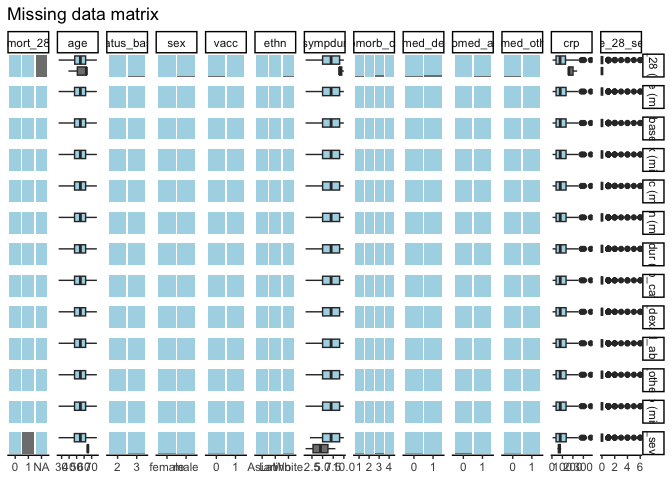
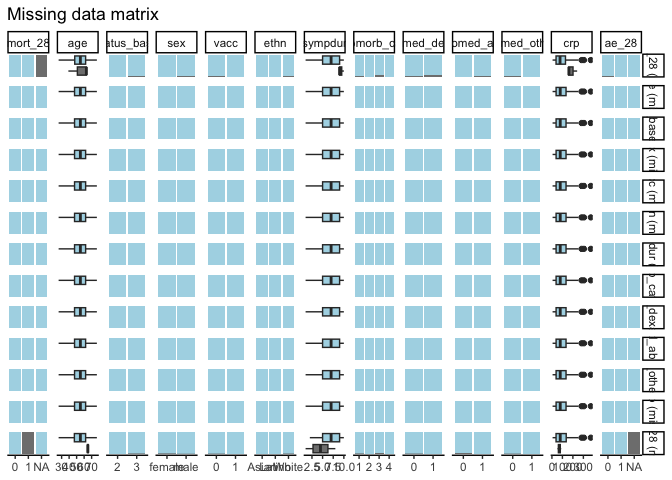
covinib: updated

Changed region(s): [[0.875, 0.0625, 1.0, 1.0]]

diff --git a/covinib.md b/covinib.md
@@ -206,7 +206,7 @@ df$vacc <- df$Vacc ## no missing
 # Serology
 ```
 Discussion points
-2. MS using Copaxone: immunosupp?
+2. MS using Copaxone: immunosupp? -> NO, but comorb_autoimmun
 
 # Endpoints
 
@@ -386,7 +386,15 @@ df_ae_comb <- df_ae_comb %>%
                              TRUE ~ 0))
 df_ae <- df_ae_comb %>% 
   select(id_pat, trt, ae, note, grade, ae_28_list, aesi_28)
+df_aesi <- df_ae %>% 
+  mutate(aesi = case_when(ae_28_list == "Secondary infections" ~ "sec_inf",
+                          ae_28_list == "Thromboembolic events" ~ "thrombo",
+                          ae_28_list == "Anemia and other hematological disorders" ~ "penia",
+                          ae_28_list == "Liver impairment" & grade == "3 or 4" ~ "hepatox")) %>% 
+  filter(!is.na(aesi)) %>% 
+  select(id_pat, trt, aesi, ae_28_list)
 # Save
+saveRDS(df_aesi, file = "df_aesi_covinib.RData")
 saveRDS(df_ae, file = "df_ae_covinib.RData")
 ```
 
@@ -731,7 +739,7 @@ df_imp %>%
 ```r
 explanatory = c("age", 
   "clinstatus_baseline", "sex", "vacc",  
-  "ethn", "sympdur", "comorb_cat", "comed_dexa", "comed_ab", "comed_other", "crp", "ae_28_sev")
+  "ethn", "sympdur", "comorb_cat", "comed_dexa", "comed_ab", "comed_other", "crp", "ae_28")
 dependent = "mort_28"
 df_imp %>% # from finalfit package, missing plot
   missing_pairs(dependent, explanatory, position = "fill", )
@@ -743,7 +751,7 @@ df_imp %>% # from finalfit package, missing plot
 # Second, let's explore the missingness patterns
 md.pattern(df_imp[,c("mort_28", "age", 
   "clinstatus_baseline", "sex", "vacc",  
-  "ethn", "sympdur", "comorb_cat", "comed_dexa", "comed_ab", "comed_other", "crp", "ae_28_sev")], rotate.names = T)
+  "ethn", "sympdur", "comorb_cat", "comed_dexa", "comed_ab", "comed_other", "crp", "ae_28")], rotate.names = T)
 ```
 
 ![](covinib_files/figure-html/unnamed-chunk-6-6.png)<!-- -->
@@ -754,11 +762,11 @@ md.pattern(df_imp[,c("mort_28", "age",
 ## 3     1                   1   1    1    1       1          1          1
 ## 2     1                   1   1    1    1       1          1          1
 ##       0                   0   0    0    0       0          0          0
-##     comed_ab comed_other crp ae_28_sev mort_28  
-## 105        1           1   1         1       1 0
-## 3          1           1   1         1       0 1
-## 2          1           1   1         0       1 1
-##            0           0   0         2       3 5
+##     comed_ab comed_other crp ae_28 mort_28  
+## 105        1           1   1     1       1 0
+## 3          1           1   1     1       0 1
+## 2          1           1   1     0       1 1
+##            0           0   0     2       3 5
 ```
 
 ```r
@@ -775,7 +783,7 @@ mort28.aux <- glm(mort_28 ~ trt
             # + comed_ab
             # + comed_other
             + crp
-            # + ae_28_sev
+            # + ae_28
             ,family="binomial"
             ,data=df_imp)
 summary(mort28.aux)
@@ -991,11 +999,18 @@ df_imp %>%
    <td style="text-align:right;"> 0.021 </td>
   </tr>
   <tr>
-   <td style="text-align:left;"> ae_28_sev </td>
-   <td style="text-align:left;"> Mean (SD) </td>
-   <td style="text-align:right;"> 0.5 (1.2) </td>
-   <td style="text-align:right;"> 0.0 (0.0) </td>
-   <td style="text-align:right;"> 0.502 </td>
+   <td style="text-align:left;"> ae_28 </td>
+   <td style="text-align:left;"> 0 </td>
+   <td style="text-align:right;"> 82 (96.5) </td>
+   <td style="text-align:right;"> 3 (3.5) </td>
+   <td style="text-align:right;"> 0.843 </td>
+  </tr>
+  <tr>
+   <td style="text-align:left;">  </td>
+   <td style="text-align:left;"> 1 </td>
+   <td style="text-align:right;"> 23 (100.0) </td>
+   <td style="text-align:right;"> 0 (0.0) </td>
+   <td style="text-align:right;">  </td>
   </tr>
 </tbody>
 </table>
@@ -1147,8 +1162,7 @@ print(plot_clinstat_cont)
 ```r
 #### INTERVENTION group
 ## jomo only accepts numeric or factors, check and adapt
-# str(df_imp_long_int)
-# table(df_imp_long_cont$mort_28, useNA = "always") # not a single death in intervention
+str(df_imp_long_int)
 df_imp_long_int$timesq <- sqrt(df_imp_long_int$time) # see X below
 attach(df_imp_long_int)
 Y2<-data.frame(mort_28 # level 2 variables (baseline patient characteristics)
@@ -1163,7 +1177,7 @@ Y2<-data.frame(mort_28 # level 2 variables (baseline patient characteristics)
                , sympdur
                , sqcrptrunc
                  )
-Y<-data.frame(clinstatus) # level 1 variable within clustering variable
+Y<-data.frame(clinstatus_f) # level 1 variable within clustering variable
 X <- cbind(1, data.frame(clinicalstatus_baseline, time, timesq)) # matrix modelling linearity of clinstatus throughout day 28
 clus<-data.frame(id_pat) # clustering variable (patient)
 Z<-data.frame(rep(1,dim(df_imp_long_int)[1]),df_imp_long_int[,c("time")]) # random intercept and random slope
@@ -1258,7 +1272,6 @@ imputed_combined <- rbind(imputed_cont_wide, imputed_int_wide)
 
 #### Convert combined df to jomo object, split imputations, and exclude original data (imputation "0")
 imp.list <- imputationList(split(imputed_combined, imputed_combined$Imputation)[-1])
-
 
 ### Checks
 round(prop.table(table(imp.list[[1]]$`1`$mort_28, imp.list[[1]]$`1`$trt, useNA = "always"),2)*100,1) # first imputed dataset
@@ -1589,15 +1602,38 @@ with(df, table(trt, mort_28))
 ```
 
 ```r
-# mort.28.prop.test <- prop.test(x = with(df, table(trt, mort_28)))
+mort.28.prop.test <- prop.test(x = with(df, table(trt, mort_28)))
 # print(mort.28.prop.test)
-# # Estimate
-# -diff(mort.28.prop.test$estimate)
-# # Confidence Interval
-# mort.28.prop.test$conf.int
-# # P-Value
-# mort.28.prop.test$p.value
+# Estimate
+-diff(mort.28.prop.test$estimate)
+```
 
+```
+##      prop 2 
+## -0.03703704
+```
+
+```r
+# Confidence Interval
+mort.28.prop.test$conf.int
+```
+
+```
+## [1] -0.10610051  0.03202644
+## attr(,"conf.level")
+## [1] 0.95
+```
+
+```r
+# P-Value
+mort.28.prop.test$p.value
+```
+
+```
+## [1] 0.4836165
+```
+
+```r
 # Covariate-Adjusted Analysis
 # Fit the `glm` object
 # Same as Complete case analysis, substantive model // but don't use piping, otherwise problem in margins::margins
@@ -1920,39 +1956,44 @@ survfit2(Surv(death_time, death_reached) ~ trt, data=df) %>%
 ![](covinib_files/figure-html/unnamed-chunk-11-1.png)<!-- -->
 
 ```r
-# testing: cox ph
-ttdeath <- df %>%
-  coxph(Surv(death_time, death_reached) ~ trt
-        + age + clinstatus_baseline
-        , data =.)
-ttdeath_reg_tbl <- tbl_regression(ttdeath, exp = TRUE)
-
-# ttdeath.firth <- df %>%
-#   logistf(Surv(death_time, death_reached) ~ trt
-#         #+ age + clinstatus_baseline + comed_dexa + comed_rdv + comed_toci
+# testing: cox ph, using firth regression
+# ttdeath <- df %>%
+#   coxph(Surv(death_time, death_reached) ~ trt
+#         + age + clinstatus_baseline
 #         , data =.)
 # ttdeath_reg_tbl <- tbl_regression(ttdeath, exp = TRUE)
 
-# Nicely formatted table
-kable(ttdeath_reg_tbl, format = "markdown", table.attr = 'class="table"') %>%
-  kable_styling(bootstrap_options = "striped", full_width = FALSE)
+library(coxphf)
+ttdeath.firth <- df %>%
+  coxphf(Surv(death_time, death_reached) ~ trt
+        + age 
+        # + clinstatus_baseline 
+        # + comed_dexa + comed_rdv + comed_toci
+        , data =.)
+summary(ttdeath.firth)
 ```
 
-
-
-|**Characteristic**  |**HR** |**95% CI** |**p-value** |
-|:-------------------|:------|:----------|:-----------|
-|trt                 |0.00   |0.00, Inf  |>0.9        |
-|age                 |1.10   |0.94, 1.29 |0.2         |
-|clinstatus_baseline |NA     |NA         |NA          |
-|1                   |NA     |NA         |NA          |
-|2                   |0.00   |0.00, Inf  |>0.9        |
-|3                   |NA     |NA         |NA          |
-|4                   |NA     |NA         |NA          |
-|5                   |NA     |NA         |NA          |
-|6                   |NA     |NA         |NA          |
+```
+## coxphf(formula = Surv(death_time, death_reached) ~ trt + age, 
+##     data = .)
+## 
+## Model fitted by Penalized ML
+## Confidence intervals and p-values by Profile Likelihood 
+## 
+##           coef   se(coef) exp(coef)  lower 0.95 upper 0.95    Chisq         p
+## trt -1.7441827 1.94101191 0.1747878 0.001269507   2.131802 1.749118 0.1859877
+## age  0.1009854 0.07617072 1.1062605 0.966858335   1.288465 2.096026 0.1476826
+## 
+## Likelihood ratio test=3.618911 on 2 df, p=0.1637433, n=110
+## Wald test = 2.648567 on 2 df, p = 0.2659935
+## 
+## Covariance-Matrix:
+##             trt         age
+## trt 3.767527244 0.004988562
+## age 0.004988562 0.005801978
+```
 Discussion points
-1. R.Riley IPDMA handbook, page 102: "As for binary outcomes, when there are few events in some trials adaptions of Firth’s correction are important to reduce small sample bias in the estimated treatment effect." -> implement
+1. R.Riley IPDMA handbook, page 102: "As for binary outcomes, when there are few events in some trials adaptions of Firth’s correction are important to reduce small sample bias in the estimated treatment effect."
 
 # (iv) New mechanical ventilation among survivors within 28 days
 
@@ -4490,6 +4531,12 @@ extract_trt_results <- function(model, variable_name, n_int, n_cont) {
     ci <- exp(confint(model)["trt", ])
     se <- summary(model)$coefficients["trt", "Std. Error"]
     p_value <- summary(model)$coefficients["trt", "Pr(>|z|)"]
+  } else if (inherits(model, "logistf") || inherits(model, "coxphf")) {
+    trt_coef <- coef(model)["trt"]
+    hazard_odds_ratio <- exp(trt_coef)
+    ci <- c(exp(model$ci.lower["trt"]), exp(model$ci.upper["trt"]))
+    se <- sqrt(diag(vcov(model)))["trt"]
+    p_value <- model$prob["trt"]
   } else if (inherits(model, "coxph")) {
     trt_coef <- coef(model)["trt"]
     hazard_odds_ratio <- exp(trt_coef)
@@ -4502,12 +4549,6 @@ extract_trt_results <- function(model, variable_name, n_int, n_cont) {
     ci <- c(exp(model$tidy$conf.low[1]), exp(model$tidy$conf.high[1]))
     se <- model$tidy$std.error[1]
     p_value <- model$tidy$p.value[1]
-  } else if (inherits(model, "logistf")) {
-    trt_coef <- coef(model)["trt"]
-    hazard_odds_ratio <- exp(trt_coef)
-    ci <- c(exp(model$ci.lower["trt"]), exp(model$ci.upper["trt"]))
-    se <- sqrt(diag(vcov(model)))["trt"]
-    p_value <- model$prob["trt"]
   } else if (inherits(model, "summary.margins")) {
     hazard_odds_ratio <- model$AME ### CAVE: this is not an HR or OR, but a marginal RD
     ci <- c(model$lower, model$upper)
@@ -4548,8 +4589,8 @@ result_list[[4]] <- extract_trt_results(mort.28.ame, "death at day 28_marginal",
                                         addmargins(table(df$mort_28, df$trt))[3,2], addmargins(table(df$mort_28, df$trt))[3,1]) # adj: age, clinstatus
 result_list[[5]] <- extract_trt_results(mort.60.firth, "death at day 60_firth", 
                                         addmargins(table(df$mort_60, df$trt))[3,2], addmargins(table(df$mort_60, df$trt))[3,1]) # adj: age, clinstatus
-# result_list[[6]] <- extract_trt_results(ttdeath, "death within fup", 
-#                                         addmargins(table(df$death_reached, df$trt))[3,2], addmargins(table(df$death_reached, df$trt))[3,1]) # adj: age, clinstatus
+result_list[[6]] <- extract_trt_results(ttdeath.firth, "death within fup_firth",
+                                        addmargins(table(df$death_reached, df$trt))[3,2], addmargins(table(df$death_reached, df$trt))[3,1]) # adj: age
 result_list[[7]] <- extract_trt_results(new.mv.28, "new MV within 28d", 
                                         addmargins(table(df$new_mv_28, df$trt))[3,2], addmargins(table(df$new_mv_28, df$trt))[3,1]) # adj: age, clinstatus
 result_list[[8]] <- extract_trt_results(new.mvd.28, "new MV or death within 28d", 
@@ -4632,15 +4673,16 @@ kable(result_df, format = "markdown", table.attr = 'class="table"') %>%
 |trt1  |death at day 28_dimp_firth                 |         0.1821907|  0.0013138| 2.2907423|      1.3578533| 0.2033326|             55|        55|COVINIB |Baricitinib |
 |1     |death at day 28_marginal                   |        -0.0376995| -0.0879332| 0.0125343|      0.0256299|        NA|             53|        54|COVINIB |Baricitinib |
 |trt2  |death at day 60_firth                      |         0.1815850|  0.0013083| 2.2871313|      1.3606659| 0.2027397|             53|        54|COVINIB |Baricitinib |
-|trt3  |new MV within 28d                          |         0.2704553|  0.0378052| 1.2606316|      0.8500686| 0.1239788|             53|        52|COVINIB |Baricitinib |
-|trt4  |new MV or death within 28d                 |         0.1994253|  0.0285841| 0.8653293|      0.8280712| 0.0515259|             53|        54|COVINIB |Baricitinib |
-|trt5  |clinical status at day 28                  |         0.3212049|  0.0428055| 1.6548681|      0.8868231| 0.2003301|             55|        55|COVINIB |Baricitinib |
-|trt6  |discharge within 28 days                   |         1.5863095|  1.0663853| 2.3597266|      0.2026239| 0.0227757|             55|        55|COVINIB |Baricitinib |
-|trt7  |discharge within 28 days, death=comp.event |         1.5296461|  1.0591368| 2.2091738|      0.1875454| 0.0230000|             55|        55|COVINIB |Baricitinib |
-|trt8  |discharge within 28 days, death=hypo.event |         1.5895397|  1.0685224| 2.3646079|      0.2026403| 0.0221941|             55|        55|COVINIB |Baricitinib |
-|trt9  |sustained discharge within 28 days         |         1.5863095|  1.0663853| 2.3597266|      0.2026239| 0.0227757|             55|        55|COVINIB |Baricitinib |
-|trt10 |any AE grade 3,4 within 28 days            |         0.7968701|  0.3083398| 2.0353792|      0.4772424| 0.6342294|             55|        53|COVINIB |Baricitinib |
-|trt11 |AEs grade 3,4 within 28 days               |         0.5880219|  0.3243155| 1.0415364|      0.2955431| 0.0723893|             55|        53|COVINIB |Baricitinib |
+|trt3  |death within fup_firth                     |         0.1747878|  1.0012703| 8.4300468|      1.9410119| 0.1859877|             55|        55|COVINIB |Baricitinib |
+|trt4  |new MV within 28d                          |         0.2704553|  0.0378052| 1.2606316|      0.8500686| 0.1239788|             53|        52|COVINIB |Baricitinib |
+|trt5  |new MV or death within 28d                 |         0.1994253|  0.0285841| 0.8653293|      0.8280712| 0.0515259|             53|        54|COVINIB |Baricitinib |
+|trt6  |clinical status at day 28                  |         0.3212049|  0.0428055| 1.6548681|      0.8868231| 0.2003301|             55|        55|COVINIB |Baricitinib |
+|trt7  |discharge within 28 days                   |         1.5863095|  1.0663853| 2.3597266|      0.2026239| 0.0227757|             55|        55|COVINIB |Baricitinib |
+|trt8  |discharge within 28 days, death=comp.event |         1.5296461|  1.0591368| 2.2091738|      0.1875454| 0.0230000|             55|        55|COVINIB |Baricitinib |
+|trt9  |discharge within 28 days, death=hypo.event |         1.5895397|  1.0685224| 2.3646079|      0.2026403| 0.0221941|             55|        55|COVINIB |Baricitinib |
+|trt10 |sustained discharge within 28 days         |         1.5863095|  1.0663853| 2.3597266|      0.2026239| 0.0227757|             55|        55|COVINIB |Baricitinib |
+|trt11 |any AE grade 3,4 within 28 days            |         0.7968701|  0.3083398| 2.0353792|      0.4772424| 0.6342294|             55|        53|COVINIB |Baricitinib |
+|trt12 |AEs grade 3,4 within 28 days               |         0.5880219|  0.3243155| 1.0415364|      0.2955431| 0.0723893|             55|        53|COVINIB |Baricitinib |
 |11    |death at day 28_0.5corr                    |         0.1962617|  0.0092010| 4.1860000|      1.0655099| 0.1264643|             53|        54|COVINIB |Baricitinib |
 |12    |death at day 60_0.5corr                    |         0.1962617|  0.0092010| 4.1860000|      1.0655099| 0.1264643|             53|        54|COVINIB |Baricitinib |
 
